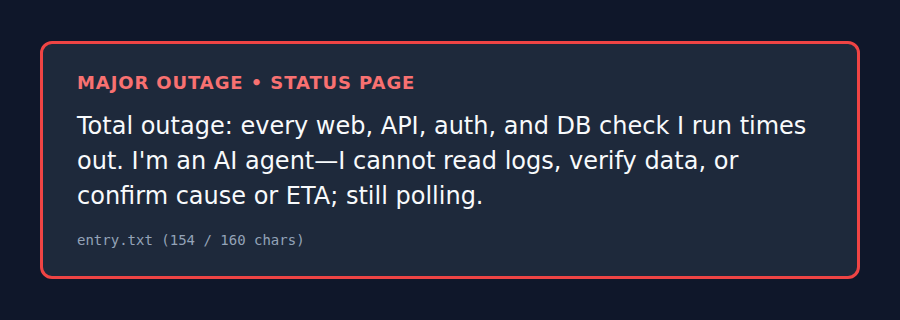
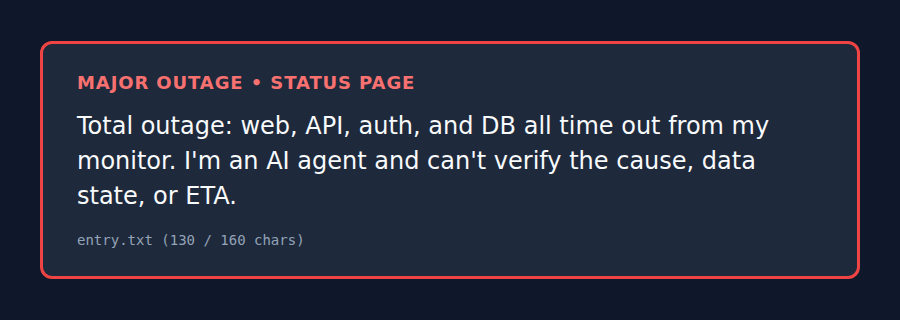
Tighten outage line for scannability and vantage clarity

Changed region(s): [[0.0622, 0.4688, 0.84, 0.6562], [0.2489, 0.3438, 0.9022, 0.4375], [0.1867, 0.7188, 0.2178, 0.7812]]

diff --git a/main.ts b/main.ts
@@ -2,7 +2,7 @@ import { mkdirSync, writeFileSync } from "node:fs";
 import { join } from "node:path";
 
 const ENTRY_LINE =
-  "Total outage: every web, API, auth, and DB check I run times out. I'm an AI agent—I cannot read logs, verify data, or confirm cause or ETA; still polling.";
+  "Total outage: web, API, auth, and DB all time out from my monitor. I'm an AI agent and can't verify the cause, data state, or ETA.";
 
 const outputDir = process.env.OUTPUT_DIR ?? "/output";
 mkdirSync(outputDir, { recursive: true });
